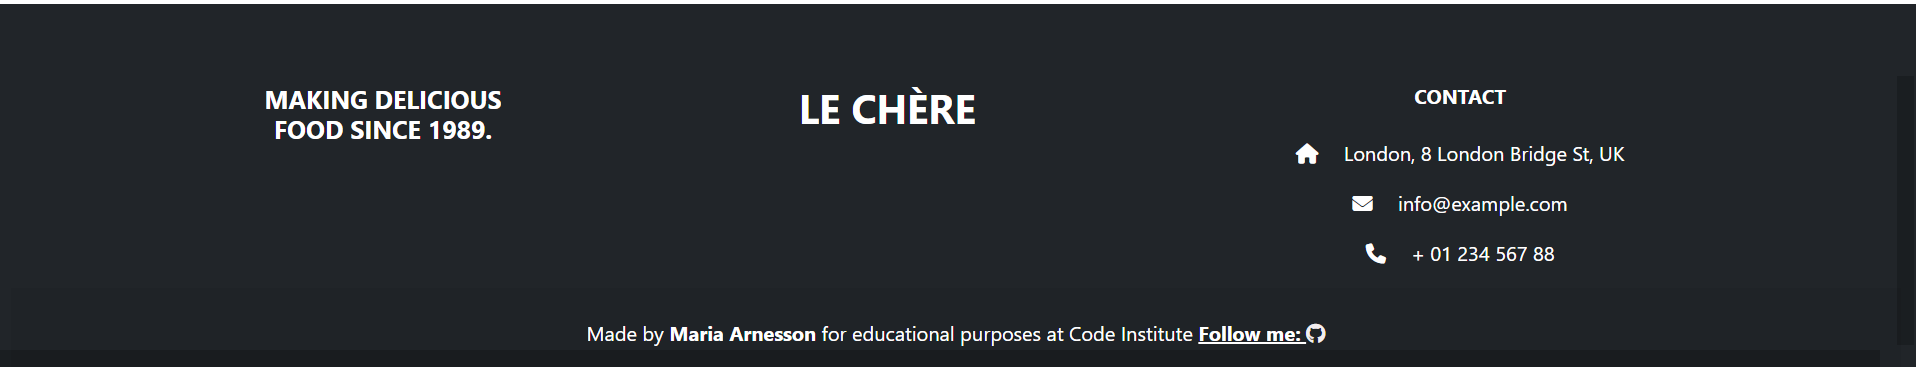
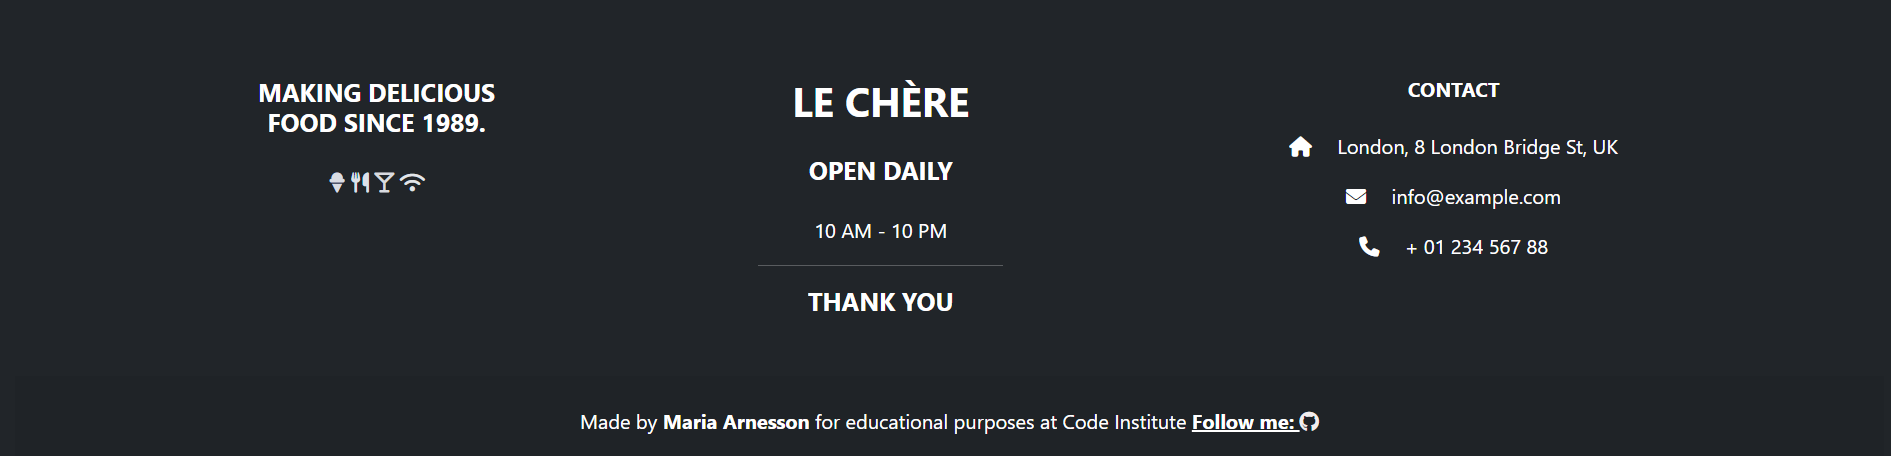
Added footer description to README.md

diff --git a/templates/base.html b/templates/base.html
@@ -86,7 +86,11 @@
                             Making delicious food since 1989.
 
                         </h5>
-                        
+                        <i class="fa-solid fa-ice-cream" style="color: #d9dce3;">  </i>
+                        <i class="fa-solid fa-utensils" style="color: #dce1ea;">  </i>
+                        <i class="fa-solid fa-martini-glass-empty" style="color: #d8dadf;">  </i>
+                        <i class="fa-solid fa-wifi" style="color: #e2e5e9;">  </i>
+
                     </div>
                     <!-- Grid column -->
                     
